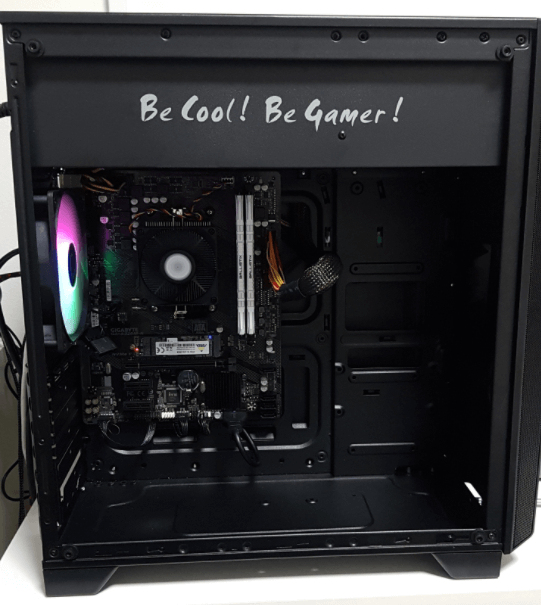
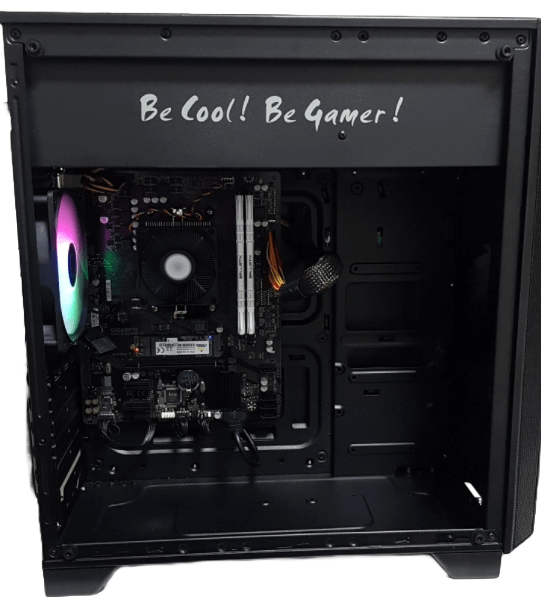
updates

diff --git a/pages/pcbuild.html b/pages/pcbuild.html
@@ -42,17 +42,17 @@
             <div class="container marginTop">
                 <div class="row">
                 <div class="offset-lg-4 col-lg-4 col-sm-6 col-12">
-                <div class="card3">
+                <div class="card3 shadow">
                 <div id="carouselExampleControls" class="carousel carousel-fade slide" data-ride="carousel">
                 <div class="carousel-inner" role="listbox">
                     <div class="carousel-item active">
-                        <img class="d-block img-size" src="../images/img/ryzen32200g4.jpg">
+                        <img class="d-block img-size" src="../images/img/ryzen32200g4.PNG">
                         </div>
                     <div class="carousel-item">
-                        <img class="d-block img-size" src="../images/img/ryzen32200g3.jpg">
+                        <img class="d-block img-size" src="../images/img/ryzen32200g3.png">
                         </div>
                 <div class="carousel-item">
-                    <img class="d-block img-size" src="../images/img/ryzen32200g1.jpg"">
+                    <img class="d-block img-size" src="../images/img/ryzen32200g1.png"">
                     </div>
                 <!-- <a class="carousel-control-prev" href="#carouselExampleControls" role="button" data-slide="prev"> -->
                 <!-- <span class="carousel-control-prev-icon" aria-hidden="true"></span> -->
@@ -71,17 +71,18 @@
             <div class="container marginTop">
                 <div class="row">
                 <div class="offset-lg-4 col-lg-4 col-sm-6 col-12">
-                <div class="card3">
+                <div class="card3 shadow">
                 <div id="carouselExampleControls" class="carousel carousel-fade slide" data-ride="carousel">
                 <div class="carousel-inner" role="listbox">
                 <div class="carousel-item active">
-                <img class="d-block img-size" src="../images/img/intel2.jpg"">
+                    <img class="d-block img-size" src="../images/img/intel2.jpg"">
+
                 </div>
                 <div class="carousel-item">
-                <img class="d-block img-size" src="../images/img/cooleridcooling.jpg">
+                <img class="d-block img-size" src="../images/img/cooleridcooling.png">
                 </div>
                 <div class="carousel-item">
-                    <img class="d-block img-size" src="../images/img/intel1.jpg"">
+                    <img class="d-block img-size" src="../images/img/intel1.png"">
                     </div>
                 <!-- <a class="carousel-control-prev" href="#carouselExampleControls" role="button" data-slide="prev"> -->
                 <!-- <span class="carousel-control-prev-icon" aria-hidden="true"></span> -->
@@ -100,7 +101,7 @@
             <div class="container marginTop">
                 <div class="row">
                 <div class="offset-lg-4 col-lg-4 col-sm-6 col-12">
-                <div class="card3">
+                <div class="card3 shadow">
                 <div id="carouselExampleControls" class="carousel carousel-fade slide" data-ride="carousel">
                 <div class="carousel-inner" role="listbox">
                 <div class="carousel-item active">
@@ -109,17 +110,6 @@
                 <div class="carousel-item">
                 <img class="d-block img-size" src="../images/img/pcclienta2.PNG">
                 </div>
-                <div class="carousel-item">
-                    <img class="d-block img-size" src="../images/img/pcclienta3.jpg">
-                    </div>
-                <!-- <a class="carousel-control-prev" href="#carouselExampleControls" role="button" data-slide="prev"> -->
-                <!-- <span class="carousel-control-prev-icon" aria-hidden="true"></span> -->
-                <!-- <span class="sr-only">Previous</span> -->
-                </a>
-                <!-- <a class="carousel-control-next" href="#carouselExampleControls" role="button" data-slide="next"> -->
-                <!-- <span class="carousel-control-next-icon" aria-hidden="true"></span> -->
-                <!-- <span class="sr-only">Next</span> -->
-                </a>
                 </div>
                 <div class="card-block marginTop">
                 <p class="card-text">Cambio de componentes de PC de hace 15 años a componentes nuevos.</p>
@@ -129,25 +119,15 @@
             <div class="container marginTop">
                 <div class="row">
                 <div class="offset-lg-4 col-lg-4 col-sm-6 col-12">
-                <div class="card3">
+                <div class="card3 shadow">
                 <div id="carouselExampleControls" class="carousel carousel-fade slide" data-ride="carousel">
                 <div class="carousel-inner" role="listbox">
                 <div class="carousel-item active">
-                <img class="d-block img-size" src="../images/img/ryzenasustuf2.jpg""">
+                <img class="d-block img-size" src="../images/img/ryzenasustuf2.png">
                 </div>
-                <div class="carousel-item">
-                    <img class="d-block img-size" src="../images/img/ryzentuf3.jpg">
-                    </div>
-                <!-- <a class="carousel-control-prev" href="#carouselExampleControls" role="button" data-slide="prev"> -->
-                <!-- <span class="carousel-control-prev-icon" aria-hidden="true"></span> -->
-                <!-- <span class="sr-only">Previous</span> -->
-                </a>
-                <!-- <a class="carousel-control-next" href="#carouselExampleControls" role="button" data-slide="next"> -->
-                <!-- <span class="carousel-control-next-icon" aria-hidden="true"></span> -->
-                <!-- <span class="sr-only">Next</span> -->
-                </a>
                 </div>
                 <div class="card-block">
+
                 <p class="card-text marginTop">Instalación Tarjeta de vídeo ASUS TUF Gaming 1660 Super.</p>
                 </div>
         </section>
@@ -155,14 +135,14 @@
         <div class="container marginTop">
             <div class="row">
             <div class="offset-lg-4 col-lg-4 col-sm-6 col-12">
-            <div class="card3">
+            <div class="card3 shadow">
             <div id="carouselExampleControls" class="carousel carousel-fade slide" data-ride="carousel">
             <div class="carousel-inner" role="listbox">
             <div class="carousel-item active">
-            <img class="d-block img-size" src="../images/img/pcarmadaryzen1.jpg"">
+            <img class="d-block img-size" src="../images/img/pcarmadaryzen1.png"">
             </div>
             <div class="carousel-item">
-            <img class="d-block img-size" src="../images/img/pcarmadaryzen2.jpg">
+            <img class="d-block img-size" src="../images/img/pcarmadaryzen2.png">
             </div>
             <!-- <a class="carousel-control-prev" href="#carouselExampleControls" role="button" data-slide="prev"> -->
             <!-- <span class="carousel-control-prev-icon" aria-hidden="true"></span> -->
@@ -181,14 +161,14 @@
     <div class="container marginTop" >
         <div class="row">
         <div class="offset-lg-4 col-lg-4 col-sm-6 col-12">
-        <div class="card3">
+        <div class="card3 shadow">
         <div id="carouselExampleControls" class="carousel carousel-fade slide" data-ride="carousel">
         <div class="carousel-inner" role="listbox">
         <div class="carousel-item active">
-        <img class="d-block img-size" src="../images/img/celeron.jpg">
+        <img class="d-block img-size" src="../images/img/celeron.png">
         </div>
         <div class="carousel-item">
-        <img class="d-block img-size" src="../images/img/celeron2.jpg">
+        <img class="d-block img-size" src="../images/img/celeron2.png">
         </div>
         <!-- <a class="carousel-control-prev" href="#carouselExampleControls" role="button" data-slide="prev">
         <span class="carousel-control-prev-icon" aria-hidden="true"></span>

diff --git a/css/styles.css b/css/styles.css
@@ -8,7 +8,6 @@ body {
   background-image: linear-gradient(180deg, #202020 51%, #818181 100%);
 
   color: white;
-  font-family: "Poppins", sans-serif;
 }
 
 header {
@@ -18,6 +17,17 @@ header {
   background-color: #202020;
   text-align: center;
   box-shadow: 0 10px 17px 0px #202020;
+}
+
+footer {
+  clear: both;
+  position: static;
+  bottom: 0;
+  width: 100%;
+  margin-top: 5vh;
+  padding-left: 5%;
+  padding-right: 5%;
+  margin-bottom: 10vh;
 }
 .cards-wrapper {
   display: flex;
@@ -286,8 +296,8 @@ button {
 
 .imgCardSize {
   border-radius: 50%;
-  width: 200px;
-  height: 200px;
+  width: 250px;
+  height: 250px;
   align-self: center;
 }
 
@@ -445,8 +455,8 @@ div .bg-pcbuild {
   }
 
   .img-size {
-    height: 420px;
-    width: 400px;
+    height: 370px;
+    width: 315px;
     border-radius: 0.1rem;
   }
 
@@ -458,5 +468,12 @@ div .bg-pcbuild {
     background-color: transparent;
     border-radius: 0.5rem;
     box-shadow: 2px 6px 8px 0 rgba(22, 22, 26, 0.18);
+    text-align: center;
+    width: auto;
+    height: auto;
+  }
+
+  .card2 {
+    box-shadow: none;
   }
 }

diff --git a/index.html b/index.html
@@ -11,6 +11,7 @@
     integrity="sha384-EVSTQN3/azprG1Anm3QDgpJLIm9Nao0Yz1ztcQTwFspd3yD65VohhpuuCOmLASjC" crossorigin="anonymous">
   <link rel="stylesheet" href="css/styles.css">
   <link href="https://unpkg.com/aos@2.3.1/dist/aos.css" rel="stylesheet">
+  <link href="https://fonts.googleapis.com/css2?family=Noto+Sans&display=swap" rel="stylesheet">
 </head>
 
 <body>
@@ -37,7 +38,7 @@
   </header>
   <br>
   <main class="container-xl toppadding-mb">
-    <img id="portfolio" class="img-fluid toppadding-mb" data-aos="fade-up" src="./images/svg/portfoliomenu.svg" alt="Portfolio Image">
+    <img id="portfolio" class="img-fluid toppadding-mb hide-content" data-aos="fade-up" src="./images/svg/portfoliomenu.svg" alt="Portfolio Image">
     <div class="row row-cols-1 row-cols-md-3 g-4 marginTop" data-aos="fade-up" data-aos-duration="2000"
       data-aos-offset="300">
       <a href="pages/pcbuild.html">
